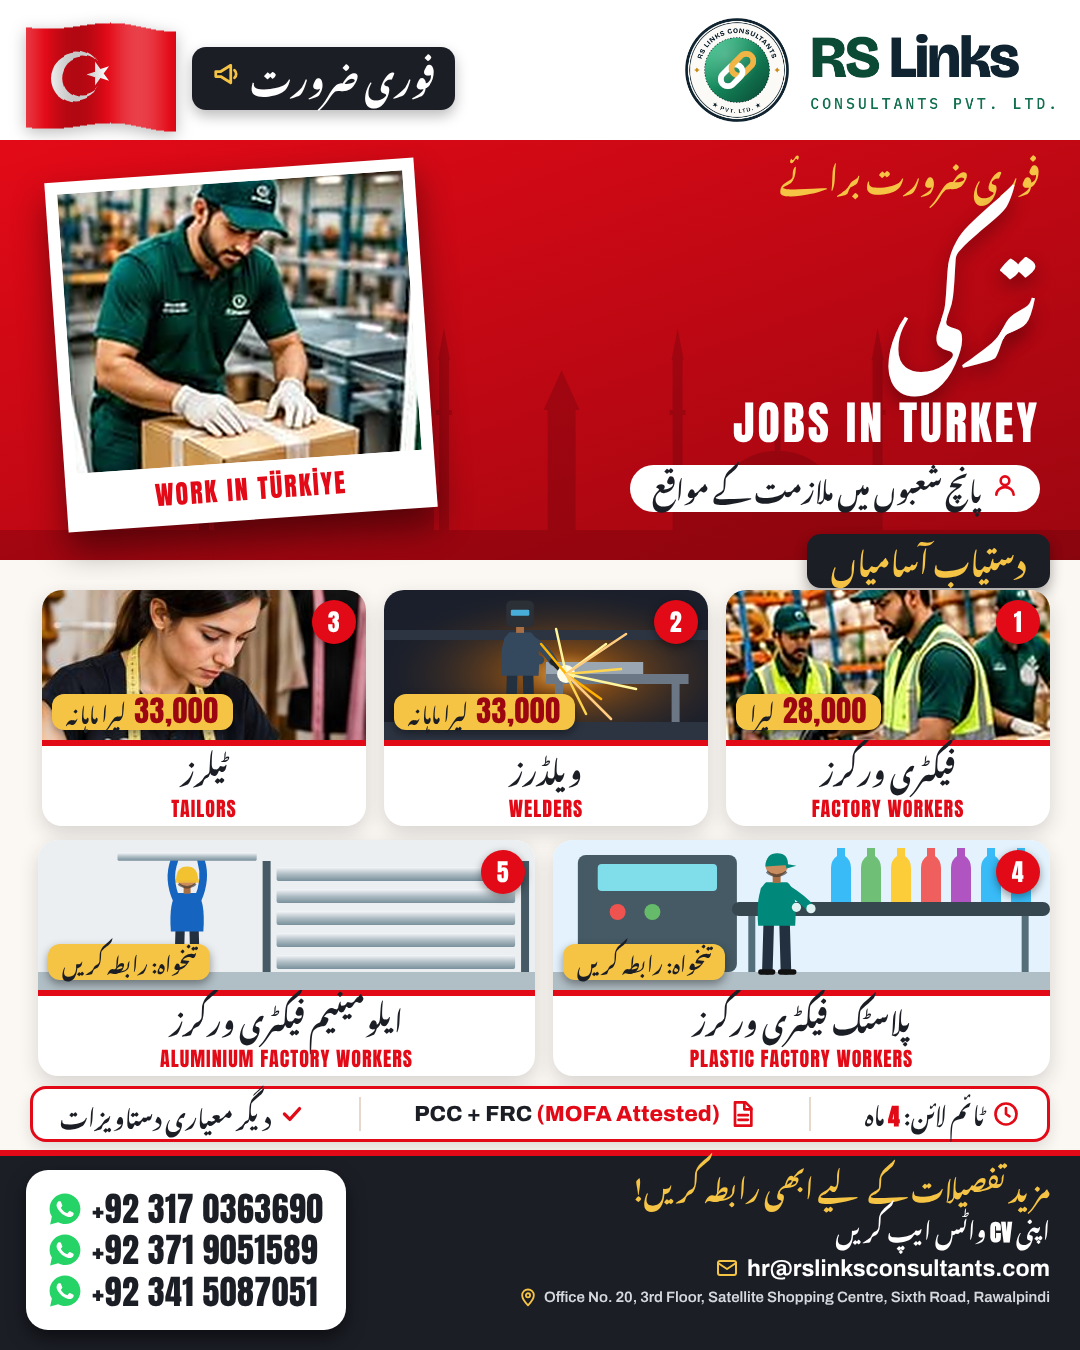
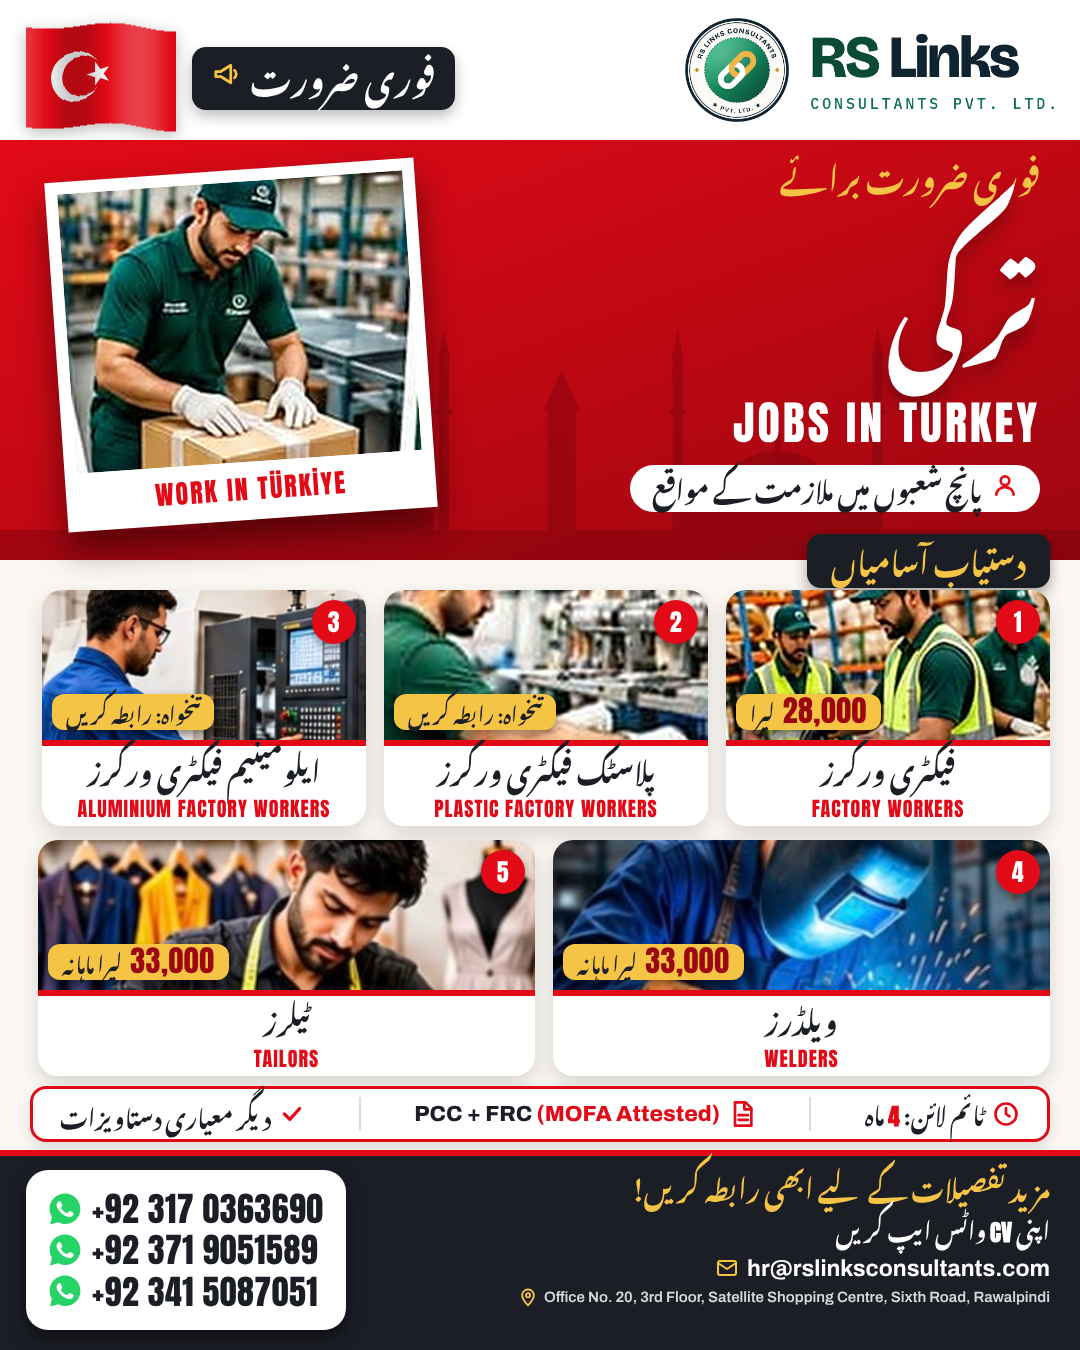
Turkey 5-positions ad: replace drawn figures with real photos of people working
Claude-Session: https://claude.ai/code/session_01YJ5ofgU8QCiWTsYR9pvXG4

Changed region(s): [[0.0306, 0.4356, 0.9778, 0.8089]]

diff --git a/src/turkey_multi.py b/src/turkey_multi.py
@@ -4,10 +4,10 @@ reference ads the user sent ("take info from here"): factory worker 28000 Lira, 
 plastic / aluminium have no figure in the references -> "salary: contact us".
 Design: "Istanbul skyline + photo grid" — white header, Turkish-red hero with Istanbul mosque/minaret skyline, tilted
 polaroid hero photo, 3+2 grid of large picture cards, charcoal CTA.
-Photos: real RS Links photos (factory) and the user's own tailor photo; welder / plastic / aluminium cards are
-drawn placeholders until real photos (assets/photos/tr_welder.*, tr_plastic.*, tr_aluminium.*) are supplied."""
+Photos (all real people, no drawings — user 2026-10-19): factory = RS Links staff; plastic = RS Links machine operator
+from the user's own Belarus ad; welder / tailor / aluminium (CNC metal machining) = cropped from the Phoenix reference ad,
+used at the user's explicit request (see assets/photos/SOURCE.txt)."""
 from common import PHONES, PHOTOS, flag, font_css, icon, logo_img, render, whatsapp_icon
-from illustrations import SKIN, _person
 
 RED, RED2, INK, CREAM, GOLD = "#E30A17", "#9C0610", "#1C1E26", "#FBF7F2", "#F6C445"
 EMAIL = "hr@rslinksconsultants.com"
@@ -21,59 +21,6 @@ def photo(key, pos="center"):
         if p.exists():
             return f"<img src='{p.as_uri()}' style='width:100%;height:100%;object-fit:cover;object-position:{pos};display:block'>"
     return None
-
-
-def welder_svg(w, h, uid="wd"):
-    fl = h * 0.88
-    arms = (f'<path d="M18 -124 Q40 -110 50 -92" stroke="#34495E" stroke-width="13" fill="none" stroke-linecap="round"/>'
-            f'<path d="M-18 -124 Q0 -100 30 -94" stroke="#34495E" stroke-width="13" fill="none" stroke-linecap="round"/>'
-            f'<path d="M48 -92 L70 -70" stroke="#222" stroke-width="7" stroke-linecap="round"/>'
-            f'<rect x="-21" y="-184" width="42" height="40" rx="8" fill="#2B2F36"/><rect x="-14" y="-170" width="28" height="9" rx="2" fill="#4FC3F7" opacity=".85"/>')
-    sx, sy = w * 0.42 + 46, fl - 48
-    sparks = "".join(f'<path d="M{sx} {sy} l{dx} {dy}" stroke="{c}" stroke-width="2.5" stroke-linecap="round"/>'
-                     for dx, dy, c in [(40, -30, "#FFF59D"), (55, -5, "#FFD54F"), (35, 25, "#FFB300"), (-10, -45, "#FFF59D"), (60, -40, "#FFCC80"),
-                                       (20, 40, "#FFD54F"), (70, 15, "#FFF59D"), (-25, -30, "#FFB300"), (45, 45, "#FFCC80")])
-    return f"""<defs><radialGradient id="{uid}g" cx="{sx/w:.2f}" cy="{sy/h:.2f}" r=".6"><stop offset="0" stop-color="#FFB74D" stop-opacity=".9"/><stop offset=".25" stop-color="#F57C00" stop-opacity=".45"/><stop offset="1" stop-color="#1A1F2B" stop-opacity="0"/></radialGradient></defs>
-<rect width="{w}" height="{h}" fill="#1A1F2B"/><rect width="{w}" height="{h}" fill="url(#{uid}g)"/>
-<path d="M0 {h*0.3} H{w}" stroke="#2C3442" stroke-width="10"/><rect y="{fl}" width="{w}" height="{h-fl}" fill="#2C3442"/>
-<rect x="{w*0.5}" y="{fl-48}" width="{w*0.44}" height="10" fill="#6B7785"/><path d="M{w*0.54} {fl-38} V{fl} M{w*0.9} {fl-38} V{fl}" stroke="#6B7785" stroke-width="8"/>
-<rect x="{w*0.5}" y="{fl-60}" width="{w*0.3}" height="12" fill="#9AA6B2"/>
-{_person(w*0.42, fl, 0.66, "#34495E", vest=False, arms=arms)}
-<circle cx="{sx}" cy="{sy}" r="9" fill="#FFFDE7"/>{sparks}"""
-
-
-def plastic_svg(w, h, uid="pl"):
-    fl = h * 0.88
-    cy = fl - 70
-    belt = (f'<rect x="{w*0.36}" y="{cy}" width="{w*0.64}" height="14" rx="7" fill="#37474F"/>'
-            + f'<path d="M{w*0.4} {cy+14} V{fl} M{w*0.95} {cy+14} V{fl}" stroke="#546E7A" stroke-width="7"/>')
-    cols = ["#29B6F6", "#66BB6A", "#FFCA28", "#EF5350", "#AB47BC", "#29B6F6"]
-    bottles = "".join(f'<path d="M{x} {cy} v-34 q0 -8 6 -12 v-8 h8 v8 q6 4 6 12 v34z" fill="{cols[i % 6]}" opacity=".92"/>'
-                      for i, x in enumerate(range(int(w * 0.56), int(w * 0.96), 30)))
-    arms = (f'<path d="M18 -124 Q40 -110 52 -96" stroke="#00897B" stroke-width="13" fill="none" stroke-linecap="round"/>'
-            f'<path d="M-18 -124 Q4 -104 30 -98" stroke="#00897B" stroke-width="13" fill="none" stroke-linecap="round"/>'
-            f'<circle cx="52" cy="-96" r="7" fill="#E0F2F1"/><circle cx="30" cy="-98" r="7" fill="#E0F2F1"/>')
-    return f"""<rect width="{w}" height="{h}" fill="#E3F2FD"/>
-<rect x="{w*0.05}" y="{h*0.1}" width="{w*0.32}" height="{fl-h*0.1}" rx="8" fill="#455A64"/><rect x="{w*0.09}" y="{h*0.16}" width="{w*0.24}" height="{h*0.18}" rx="4" fill="#80DEEA"/>
-<circle cx="{w*0.13}" cy="{h*0.48}" r="8" fill="#EF5350"/><circle cx="{w*0.2}" cy="{h*0.48}" r="8" fill="#66BB6A"/>
-<rect y="{fl}" width="{w}" height="{h-fl}" fill="#B0BEC5"/>{belt}{bottles}
-{_person(w*0.45, fl, 0.66, "#00897B", vest=False, cap="#00897B", arms=arms)}"""
-
-
-def aluminium_svg(w, h, uid="al"):
-    fl = h * 0.88
-    rack = "".join(f'<rect x="{w*0.48}" y="{h*0.18 + k*22}" width="{w*0.48}" height="14" rx="2" fill="url(#{uid}m)"/>' for k in range(7))
-    arms = (f'<path d="M18 -124 Q34 -160 24 -192" stroke="#1565C0" stroke-width="13" fill="none" stroke-linecap="round"/>'
-            f'<path d="M-18 -124 Q-34 -160 -22 -192" stroke="#1565C0" stroke-width="13" fill="none" stroke-linecap="round"/>'
-            f'<rect x="-120" y="-206" width="240" height="14" rx="2" fill="url(#{uid}m)"/>')
-    return f"""<defs><linearGradient id="{uid}m" x1="0" y1="0" x2="0" y2="1"><stop offset="0" stop-color="#F5F7FA"/><stop offset=".5" stop-color="#B0BEC5"/><stop offset="1" stop-color="#78909C"/></linearGradient></defs>
-<rect width="{w}" height="{h}" fill="#ECEFF1"/><path d="M{w*0.46} {h*0.14} V{fl} M{w*0.98} {h*0.14} V{fl}" stroke="#455A64" stroke-width="8"/>{rack}
-<rect y="{fl}" width="{w}" height="{h-fl}" fill="#B0BEC5"/>
-{_person(w*0.3, fl, 0.58, "#1565C0", vest=False, helmet="#F2C230", arms=arms)}"""
-
-
-def art(fn, w, h):
-    return f"<svg width='{w}' height='{h}' viewBox='0 0 {w} {h}' style='display:block'>{fn(w, h)}</svg>"
 
 
 def istanbul(w, h, fill):
@@ -95,10 +42,10 @@ def build():
     N = lambda v: f"<span class='num' style='font-size:30px;color:{RED2};line-height:1'>{v}</span>"
     lira = lambda v, monthly=False: f"{N(v)} {T('لیرا ماہانہ' if monthly else 'لیرا', 20, INK, 'font-weight:700;display:inline-block', 1.4)}"
     jobs = [("فیکٹری ورکرز", "FACTORY WORKERS", photo("rslinks_team_scan_x3", "center 30%"), lira("28,000")),
-            ("ویلڈرز", "WELDERS", photo("tr_welder") or art(welder_svg, 324, 150), lira("33,000", True)),
-            ("ٹیلرز", "TAILORS", photo("by_tailor", "center 35%"), lira("33,000", True)),
-            ("پلاسٹک فیکٹری ورکرز", "PLASTIC FACTORY WORKERS", photo("tr_plastic") or art(plastic_svg, 497, 150), T("تنخواہ: رابطہ کریں", 20, INK, "font-weight:700", 1.5)),
-            ("ایلومینیم فیکٹری ورکرز", "ALUMINIUM FACTORY WORKERS", photo("tr_aluminium") or art(aluminium_svg, 497, 150), T("تنخواہ: رابطہ کریں", 20, INK, "font-weight:700", 1.5))]
+            ("پلاسٹک فیکٹری ورکرز", "PLASTIC FACTORY WORKERS", photo("tr_plastic", "center 40%"), T("تنخواہ: رابطہ کریں", 20, INK, "font-weight:700", 1.5)),
+            ("ایلومینیم فیکٹری ورکرز", "ALUMINIUM FACTORY WORKERS", photo("tr_aluminium", "center 30%"), T("تنخواہ: رابطہ کریں", 20, INK, "font-weight:700", 1.5)),
+            ("ویلڈرز", "WELDERS", photo("tr_welder", "center 35%"), lira("33,000", True)),
+            ("ٹیلرز", "TAILORS", photo("tr_tailor", "center 12%"), lira("33,000", True))]
 
     def card(i, j, x, y, w):
         ur, en, pic, sal = j

diff --git a/demands/2026-10-19-turkey-multi/facts.md b/demands/2026-10-19-turkey-multi/facts.md
@@ -15,3 +15,4 @@ welder / plastic / aluminium = drawn placeholders until real photos supplied.
 ## Update: user added (2026-10-19)
 - Timeline: 4 months
 - Documents: PCC + FRC (MOFA attested), plus standard documents
+- Photos: user asked for real people, no drawings; approved using the Phoenix reference-ad photos (welder, tailor, CNC->aluminium). Plastic = RS Links machine operator from own Belarus ad.
